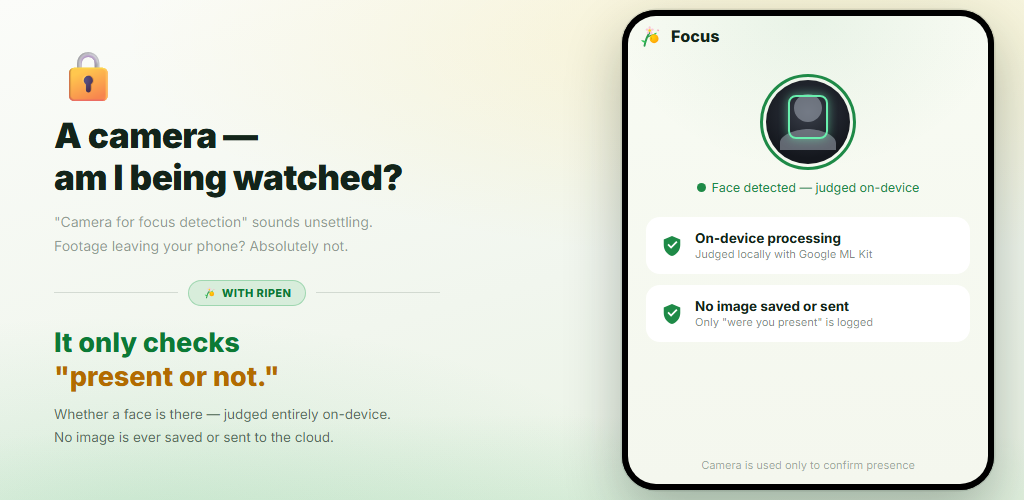
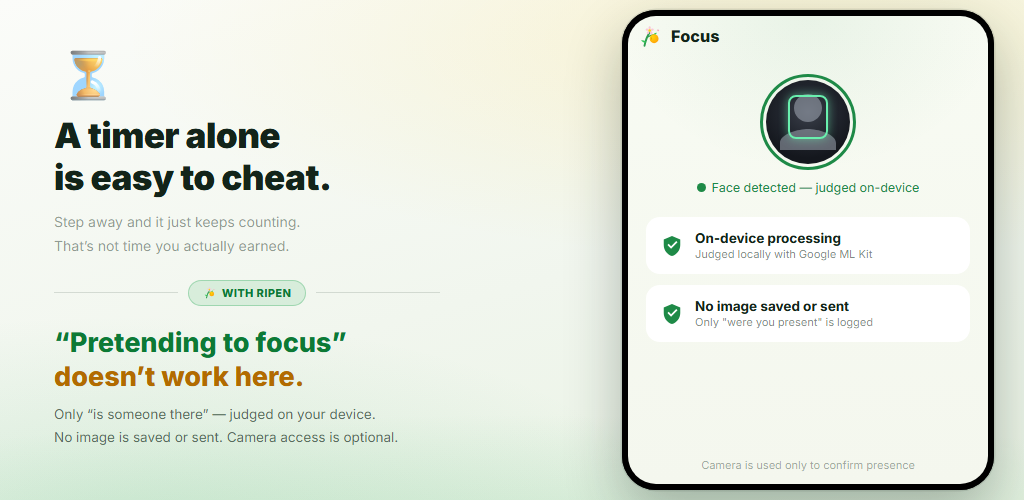
Ripen: ストア画像5枚目を不安あおり型から他4枚と同じ型に直す（12言語）
5枚目だけ、悩みの位置に「カメラ？監視されてるの…？」とアプリへの
疑いを置いていた。他4枚の悩みはユーザー自身の困りごとで、型が違う。
ストアのカルーセルは大見出ししか読まれないため、これでは不安だけが
残る。

- 悩み: 「タイマーだけでは、いくらでもサボれる。」（絵文字も⏳へ）
- RIPEN なら: 「「集中したフリ」は、通用しない。」
- カメラを疑いの対象ではなくサボりを防ぐ仕組みとして提示し、
  プライバシーは本文と端末内カードに事実として残す
- 「カメラ権限なしでも他の機能は使える」を追加（プライバシー
  ポリシー記載の事実。不安解消に効くのに画像に出ていなかった）

12言語を再生成し、レンダリング実寸で溢れと折り返し行数(各2行)を
自動検査。ru のみ3行に回っていたため文言を詰めた。

diff --git a/ripen/store-images-i18n.js b/ripen/store-images-i18n.js
@@ -44,10 +44,10 @@ window.STORE_I18N = {
     "b_title": "Time to focus",
     "b_body": "<b>\"Instagram\"</b> is locked right now.<br>Focus to ripen some usable time.",
     "b_chip": "Usable time 0 min", "b_btn": "▶ Focus &amp; ripen", "b_home": "Back to home",
-    "i5_t": "A camera —<br>am I being watched?",
-    "i5_s": "\"Camera for focus detection\" sounds unsettling.<br>Footage leaving your phone? Absolutely not.",
-    "i5_h1": "It only checks", "i5_h2": "\"present or not.\"",
-    "i5_b": "Whether a face is there — judged entirely on-device.<br>No image is ever saved or sent to the cloud.",
+    "i5_t": "A timer alone<br>is easy to cheat.",
+    "i5_s": "Step away and it just keeps counting.<br>That’s not time you actually earned.",
+    "i5_h1": "“Pretending to focus”", "i5_h2": "doesn’t work here.",
+    "i5_b": "Only “is someone there” — judged on your device.<br>No image is saved or sent. Camera access is optional.",
     "face_det": "Face detected — judged on-device",
     "pc1_t": "On-device processing", "pc1_s": "Judged locally with Google ML Kit",
     "pc2_t": "No image saved or sent", "pc2_s": "Only \"were you present\" is logged",
@@ -94,10 +94,10 @@ window.STORE_I18N = {
     "b_title": "集中の時間です",
     "b_body": "<b>「Instagram」</b>は今ロック中。<br>集中して、使える時間を実らせよう。",
     "b_chip": "使える時間 0分", "b_btn": "▶ 集中して実らせる", "b_home": "ホームに戻る",
-    "i5_t": "カメラ？<br>監視されてるの…？",
-    "i5_s": "「集中の判定にカメラ」は不安に聞こえるもの。<br>映像が外に出ることは、絶対にありません。",
-    "i5_h1": "見ているのは", "i5_h2": "「在席かどうか」だけ。",
-    "i5_b": "顔があるかどうかは、すべて端末内で判定。<br>画像がクラウドに保存・送信されることはありません。",
+    "i5_t": "タイマーだけでは、<br>いくらでもサボれる。",
+    "i5_s": "席を立っても、時間はただ進むだけ。<br>それでは「実った時間」になりません。",
+    "i5_h1": "「集中したフリ」は、", "i5_h2": "通用しない。",
+    "i5_b": "「人がいるか」だけを端末内で判定。保存も送信もなし。<br>カメラ権限なしでも、他の機能はそのまま使えます。",
     "face_det": "顔を検出 — 端末内で判定",
     "pc1_t": "端末内処理", "pc1_s": "Google ML Kit でローカル判定",
     "pc2_t": "画像の保存・送信なし", "pc2_s": "記録されるのは「在席したか」だけ",
@@ -144,10 +144,10 @@ window.STORE_I18N = {
     "b_title": "집중할 시간",
     "b_body": "<b>'Instagram'</b>은 지금 잠겨 있어요.<br>집중해서 사용 시간을 익혀보세요.",
     "b_chip": "사용 가능 시간 0분", "b_btn": "▶ 집중하고 익히기", "b_home": "홈으로 돌아가기",
-    "i5_t": "카메라라니 —<br>감시당하는 걸까?",
-    "i5_s": "'집중 감지에 카메라'는 불안하게 들리죠.<br>영상이 폰 밖으로 나가는 일은 절대 없습니다.",
-    "i5_h1": "확인하는 건", "i5_h2": "'있는지 없는지'뿐.",
-    "i5_b": "얼굴이 있는지만 전부 기기 안에서 판정.<br>이미지는 클라우드에 저장·전송되지 않습니다.",
+    "i5_t": "타이머만으로는<br>쉽게 속일 수 있죠.",
+    "i5_s": "자리를 비워도 시간은 그냥 흘러갑니다.<br>그건 ‘잘 익은 시간’이 아니에요.",
+    "i5_h1": "‘집중한 척’은", "i5_h2": "통하지 않아요.",
+    "i5_b": "‘사람이 있는지’만 기기 안에서 판정.<br>저장도 전송도 없음. 카메라 권한은 선택입니다.",
     "face_det": "얼굴 감지 — 기기 내 판정",
     "pc1_t": "온디바이스 처리", "pc1_s": "Google ML Kit로 로컬 판정",
     "pc2_t": "이미지 저장·전송 없음", "pc2_s": "기록되는 건 '있었는지'뿐",
@@ -194,10 +194,10 @@ window.STORE_I18N = {
     "b_title": "该专注了",
     "b_body": "<b>\"Instagram\"</b>目前已锁定。<br>专注一下，让可用时间成熟吧。",
     "b_chip": "可用时间 0 分钟", "b_btn": "▶ 专注并收获", "b_home": "返回主页",
-    "i5_t": "摄像头——<br>我被监视了吗？",
-    "i5_s": "\"用摄像头检测专注\"听着让人不安。<br>影像会离开手机？绝对不会。",
-    "i5_h1": "它只判断", "i5_h2": "\"在或不在\"。",
-    "i5_b": "是否有人脸——完全在设备本地判断。<br>任何图像都不会被保存或上传云端。",
+    "i5_t": "只有计时器，<br>想偷懒随时都行。",
+    "i5_s": "人离开了，时间还在照走。<br>那样攒下的时间并不算数。",
+    "i5_h1": "「假装专注」", "i5_h2": "在这里行不通。",
+    "i5_b": "只判断「有没有人」，全程在设备本地。<br>不保存、不上传。摄像头权限可以不给。",
     "face_det": "检测到人脸 — 本地判断",
     "pc1_t": "设备本地处理", "pc1_s": "使用 Google ML Kit 本地判断",
     "pc2_t": "不保存、不发送图像", "pc2_s": "只记录\"是否在场\"",
@@ -244,10 +244,10 @@ window.STORE_I18N = {
     "b_title": "Zeit zu fokussieren",
     "b_body": "<b>„Instagram\"</b> ist gerade gesperrt.<br>Fokussiere dich und lass Zeit reifen.",
     "b_chip": "Nutzbare Zeit: 0 Min", "b_btn": "▶ Fokussieren &amp; reifen", "b_home": "Zur Startseite",
-    "i5_t": "Eine Kamera —<br>werde ich beobachtet?",
-    "i5_s": "„Kamera zur Fokus-Erkennung\" klingt beunruhigend.<br>Verlassen Aufnahmen dein Handy? Absolut nicht.",
-    "i5_h1": "Es prüft nur:", "i5_h2": "„anwesend oder nicht.\"",
-    "i5_b": "Ob ein Gesicht da ist — komplett auf dem Gerät beurteilt.<br>Kein Bild wird je gespeichert oder in die Cloud gesendet.",
+    "i5_t": "Ein Timer allein<br>ist leicht zu umgehen.",
+    "i5_s": "Du gehst weg – und er zählt weiter.<br>So wird das keine verdiente Zeit.",
+    "i5_h1": "„Fokus vortäuschen“", "i5_h2": "geht hier nicht.",
+    "i5_b": "Nur „ist jemand da“ – auf dem Gerät geprüft.<br>Kein Bild gespeichert oder gesendet. Kamera optional.",
     "face_det": "Gesicht erkannt — auf dem Gerät",
     "pc1_t": "Verarbeitung auf dem Gerät", "pc1_s": "Lokal beurteilt mit Google ML Kit",
     "pc2_t": "Kein Bild gespeichert/gesendet", "pc2_s": "Nur „warst du da\" wird protokolliert",
@@ -294,10 +294,10 @@ window.STORE_I18N = {
     "b_title": "Hora de concentrarse",
     "b_body": "<b>«Instagram»</b> está bloqueada ahora.<br>Concéntrate y madura tiempo de uso.",
     "b_chip": "Disponible: 0 min", "b_btn": "▶ Concentrarse y madurar", "b_home": "Volver al inicio",
-    "i5_t": "¿Una cámara?<br>¿Me están viendo?",
-    "i5_s": "«Cámara para detectar tu foco» suena inquietante.<br>¿Imágenes que salen del móvil? En absoluto.",
-    "i5_h1": "Solo comprueba", "i5_h2": "«presente o no».",
-    "i5_b": "Si hay un rostro o no: todo se evalúa en el dispositivo.<br>Ninguna imagen se guarda ni se envía a la nube.",
+    "i5_t": "Un temporizador<br>es fácil de engañar.",
+    "i5_s": "Te levantas y sigue contando igual.<br>Así no es tiempo que hayas ganado.",
+    "i5_h1": "«Fingir concentración»", "i5_h2": "aquí no cuela.",
+    "i5_b": "Solo «hay alguien delante», en tu dispositivo.<br>Ninguna imagen se guarda ni se envía. Cámara opcional.",
     "face_det": "Rostro detectado — en el dispositivo",
     "pc1_t": "Procesado en el dispositivo", "pc1_s": "Evaluado localmente con Google ML Kit",
     "pc2_t": "Ninguna imagen guardada o enviada", "pc2_s": "Solo se registra «si estuviste»",
@@ -344,10 +344,10 @@ window.STORE_I18N = {
     "b_title": "C'est l'heure du focus",
     "b_body": "<b>« Instagram »</b> est verrouillée.<br>Concentrez-vous pour faire mûrir du temps.",
     "b_chip": "Temps dispo : 0 min", "b_btn": "▶ Focus et récolte", "b_home": "Retour à l'accueil",
-    "i5_t": "Une caméra —<br>suis-je surveillé ?",
-    "i5_s": "« Caméra pour détecter le focus », ça inquiète.<br>Des images qui quittent le téléphone ? Absolument pas.",
-    "i5_h1": "Elle vérifie seulement", "i5_h2": "« présent ou non ».",
-    "i5_b": "Un visage est-il là ? Tout est évalué sur l'appareil.<br>Aucune image n'est enregistrée ni envoyée au cloud.",
+    "i5_t": "Un simple minuteur,<br>ça se contourne vite.",
+    "i5_s": "Vous partez, il continue de compter.<br>Ce n’est pas du temps vraiment gagné.",
+    "i5_h1": "« Faire semblant »", "i5_h2": "ne marche pas ici.",
+    "i5_b": "Uniquement « quelqu’un est-il là », sur l’appareil.<br>Aucune image enregistrée ni envoyée. Caméra optionnelle.",
     "face_det": "Visage détecté — sur l'appareil",
     "pc1_t": "Traitement sur l'appareil", "pc1_s": "Évalué localement avec Google ML Kit",
     "pc2_t": "Aucune image enregistrée/envoyée", "pc2_s": "Seul « étiez-vous présent » est noté",
@@ -394,10 +394,10 @@ window.STORE_I18N = {
     "b_title": "È ora di concentrarsi",
     "b_body": "<b>«Instagram»</b> è bloccata al momento.<br>Concentrati e fai maturare tempo.",
     "b_chip": "Tempo disponibile: 0 min", "b_btn": "▶ Concentrati e matura", "b_home": "Torna alla home",
-    "i5_t": "Una fotocamera —<br>mi stanno guardando?",
-    "i5_s": "«Fotocamera per rilevare il focus» suona inquietante.<br>Immagini che lasciano il telefono? Assolutamente no.",
-    "i5_h1": "Controlla solo", "i5_h2": "«presente o no».",
-    "i5_b": "Se c'è un volto — valutato interamente sul dispositivo.<br>Nessuna immagine viene salvata o inviata al cloud.",
+    "i5_t": "Un timer da solo<br>si aggira facilmente.",
+    "i5_s": "Ti alzi e lui continua a contare.<br>Così non è tempo davvero guadagnato.",
+    "i5_h1": "«Fingere di concentrarsi»", "i5_h2": "qui non funziona.",
+    "i5_b": "Solo «c’è qualcuno», valutato sul tuo dispositivo.<br>Nessuna immagine salvata o inviata. Fotocamera opzionale.",
     "face_det": "Volto rilevato — sul dispositivo",
     "pc1_t": "Elaborazione sul dispositivo", "pc1_s": "Valutato in locale con Google ML Kit",
     "pc2_t": "Nessuna immagine salvata o inviata", "pc2_s": "Si registra solo «eri presente»",
@@ -444,10 +444,10 @@ window.STORE_I18N = {
     "b_title": "Hora de focar",
     "b_body": "<b>«Instagram»</b> está bloqueado agora.<br>Foque para amadurecer tempo de uso.",
     "b_chip": "Tempo disponível: 0 min", "b_btn": "▶ Focar e amadurecer", "b_home": "Voltar ao início",
-    "i5_t": "Uma câmera —<br>estou sendo vigiado?",
-    "i5_s": "«Câmera para detectar foco» soa estranho.<br>Imagens saindo do celular? De jeito nenhum.",
-    "i5_h1": "Só verifica", "i5_h2": "«presente ou não».",
-    "i5_b": "Se há um rosto — avaliado inteiramente no aparelho.<br>Nenhuma imagem é salva ou enviada à nuvem.",
+    "i5_t": "Só um cronômetro<br>é fácil de burlar.",
+    "i5_s": "Você sai e ele continua contando.<br>Assim não é tempo realmente conquistado.",
+    "i5_h1": "«Fingir que está focado»", "i5_h2": "aqui não cola.",
+    "i5_b": "Só «tem alguém ali», avaliado no seu aparelho.<br>Nenhuma imagem é salva ou enviada. Câmera opcional.",
     "face_det": "Rosto detectado — no aparelho",
     "pc1_t": "Processamento no aparelho", "pc1_s": "Avaliado localmente com Google ML Kit",
     "pc2_t": "Nenhuma imagem salva ou enviada", "pc2_s": "Só se registra «você estava presente»",
@@ -494,10 +494,10 @@ window.STORE_I18N = {
     "b_title": "Время фокуса",
     "b_body": "<b>«Instagram»</b> сейчас заблокирован.<br>Фокусируйтесь — и время созреет.",
     "b_chip": "Доступно: 0 мин", "b_btn": "▶ Фокус — время созреет", "b_home": "На главную",
-    "i5_t": "Камера?<br>За мной следят?",
-    "i5_s": "«Камера для проверки фокуса» звучит тревожно.<br>Кадры покидают телефон? Ни в коем случае.",
-    "i5_h1": "Проверяется лишь", "i5_h2": "«на месте или нет».",
-    "i5_b": "Есть ли лицо в кадре — оценивается только на устройстве.<br>Изображения не сохраняются и не уходят в облако.",
+    "i5_t": "Один таймер<br>легко обмануть.",
+    "i5_s": "Вы отошли — а он всё считает.<br>Такое время вы не заработали.",
+    "i5_h1": "«Делать вид»", "i5_h2": "здесь не выйдет.",
+    "i5_b": "Только «есть ли кто-то» — на устройстве.<br>Ничего не сохраняется. Камера — по желанию.",
     "face_det": "Лицо обнаружено — на устройстве",
     "pc1_t": "Обработка на устройстве", "pc1_s": "Локальная оценка через Google ML Kit",
     "pc2_t": "Фото не сохраняются и не отправляются", "pc2_s": "Фиксируется лишь «были ли вы на месте»",
@@ -544,10 +544,10 @@ window.STORE_I18N = {
     "b_title": "फ़ोकस का समय",
     "b_body": "<b>\"Instagram\"</b> अभी लॉक है।<br>फ़ोकस करें और उपयोग्य समय पकाएं।",
     "b_chip": "उपयोग्य समय 0 मि", "b_btn": "▶ फ़ोकस करें और पकाएं", "b_home": "होम पर लौटें",
-    "i5_t": "कैमरा —<br>क्या मुझ पर नज़र है?",
-    "i5_s": "\"फ़ोकस जांच के लिए कैमरा\" सुनकर बेचैनी होती है।<br>क्या फ़ुटेज फ़ोन से बाहर जाती है? बिल्कुल नहीं।",
-    "i5_h1": "यह सिर्फ़ जांचता है", "i5_h2": "\"मौजूद हैं या नहीं।\"",
-    "i5_b": "चेहरा है या नहीं — पूरी जांच डिवाइस पर ही।<br>कोई इमेज न सेव होती है, न क्लाउड पर जाती है।",
+    "i5_t": "सिर्फ़ टाइमर हो तो<br>बहाना बनाना आसान है।",
+    "i5_s": "आप उठकर चले जाएँ, फिर भी वह गिनता रहता है।<br>वह सच में कमाया हुआ समय नहीं होता।",
+    "i5_h1": "“फ़ोकस का दिखावा”", "i5_h2": "यहाँ नहीं चलता।",
+    "i5_b": "सिर्फ़ “कोई मौजूद है या नहीं” — डिवाइस पर ही।<br>कोई इमेज सेव या भेजी नहीं जाती। कैमरा वैकल्पिक है।",
     "face_det": "चेहरा मिला — डिवाइस पर जांच",
     "pc1_t": "डिवाइस पर प्रोसेसिंग", "pc1_s": "Google ML Kit से लोकल जांच",
     "pc2_t": "कोई इमेज सेव या सेंड नहीं", "pc2_s": "सिर्फ़ 'मौजूद थे या नहीं' दर्ज होता है",
@@ -594,10 +594,10 @@ window.STORE_I18N = {
     "b_title": "حان وقت التركيز",
     "b_body": "<b>«Instagram»</b> مقفل الآن.<br>ركّز لينضج لك وقت متاح.",
     "b_chip": "الوقت المتاح 0 د", "b_btn": "▶ ركّز ودَع الوقت ينضج", "b_home": "العودة إلى الرئيسية",
-    "i5_t": "كاميرا —<br>هل أنا مراقب؟",
-    "i5_s": "«كاميرا لاكتشاف التركيز» تبدو مقلقة.<br>هل تغادر اللقطات هاتفك؟ قطعاً لا.",
-    "i5_h1": "يتحقق فقط من", "i5_h2": "«حاضر أم لا».",
-    "i5_b": "هل يوجد وجه — يُحكم عليه بالكامل على الجهاز.<br>لا تُحفظ أي صورة ولا تُرسل إلى السحابة أبداً.",
+    "i5_t": "مؤقّت وحده<br>يسهل التحايل عليه.",
+    "i5_s": "تغادر مكانك وهو يواصل العدّ.<br>هذا ليس وقتاً كسبته فعلاً.",
+    "i5_h1": "«التظاهر بالتركيز»", "i5_h2": "لا ينفع هنا.",
+    "i5_b": "فقط «هل يوجد أحد» — يُحكم عليه على الجهاز.<br>لا تُحفظ صورة ولا تُرسل. إذن الكاميرا اختياري.",
     "face_det": "تم رصد الوجه — يُحكم على الجهاز",
     "pc1_t": "معالجة على الجهاز", "pc1_s": "يُقيَّم محلياً عبر Google ML Kit",
     "pc2_t": "لا تُحفظ الصور ولا تُرسل", "pc2_s": "يُسجَّل فقط «هل كنت حاضراً»",

diff --git a/ripen/store-images.html b/ripen/store-images.html
@@ -469,18 +469,18 @@ html[lang="ar"] .p-title { line-height:1.3; }
 
 
 <!-- ═══════════════════════════════════════════════════
-     IMG 5  camera = surveillance? → checks presence only, on-device
+     IMG 5  a timer alone is easy to cheat → camera checks presence only, on-device
 ════════════════════════════════════════════════════════ -->
 <div class="si" id="img5">
   <div class="bg"></div><div class="soilcurve"></div>
 
   <div class="panel">
-    <div class="p-emoji">🔒</div>
-    <div class="p-title" data-i18n="i5_t">A camera —<br>am I being watched?</div>
-    <div class="p-sub" data-i18n="i5_s">"Camera for focus detection" sounds unsettling.<br>Footage leaving your phone? Absolutely not.</div>
+    <div class="p-emoji">⏳</div>
+    <div class="p-title" data-i18n="i5_t">A timer alone<br>is easy to cheat.</div>
+    <div class="p-sub" data-i18n="i5_s">Step away and it just keeps counting.<br>That’s not time you actually earned.</div>
     <div class="dvr"><div class="dvr-l"></div><div class="dvr-p"><svg class="lf"><use href="#sprout"/></svg><span data-i18n="with_ripen">With Ripen</span></div><div class="dvr-l"></div></div>
-    <div class="s-title"><span data-i18n="i5_h1">It only checks</span><br><span class="gold" data-i18n="i5_h2">"present or not."</span></div>
-    <div class="s-sub" data-i18n="i5_b">Whether a face is there — judged entirely on-device.<br>No image is ever saved or sent to the cloud.</div>
+    <div class="s-title"><span data-i18n="i5_h1">“Pretending to focus”</span><br><span class="gold" data-i18n="i5_h2">doesn’t work here.</span></div>
+    <div class="s-sub" data-i18n="i5_b">Only “is someone there” — judged on your device.<br>No image is saved or sent. Camera access is optional.</div>
   </div>
 
   <!-- Phone: focus + privacy callouts -->
